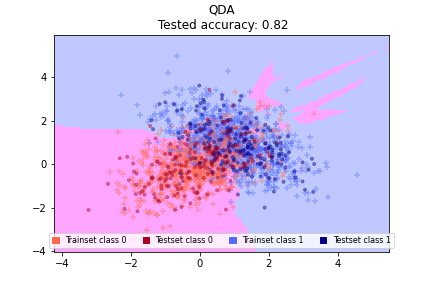
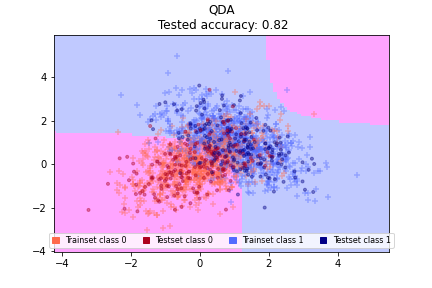
.

diff --git a/project_1/main.py b/project_1/main.py
@@ -111,7 +111,7 @@ for key in [1,2,3,4]:
         xx1, xx2 = np.meshgrid(np.arange(x1_min, x1_max, .1), np.arange(x2_min, x2_max, .1))
 
         # predict class using "test" meshgrid
-        y = model_knn.predict(np.c_[xx1.ravel(), xx2.ravel()])
+        y = model.predict(np.c_[xx1.ravel(), xx2.ravel()])
         y = y.reshape(xx1.shape)
 
         # plot results of "test" meshgrid
